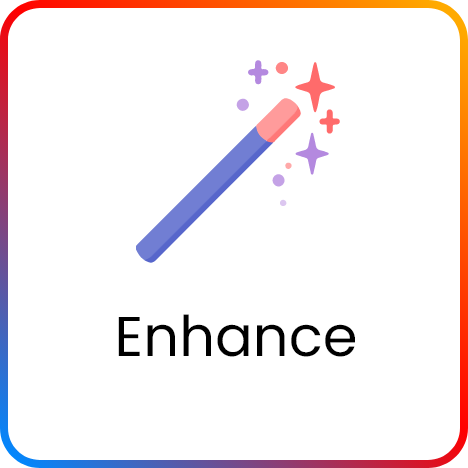
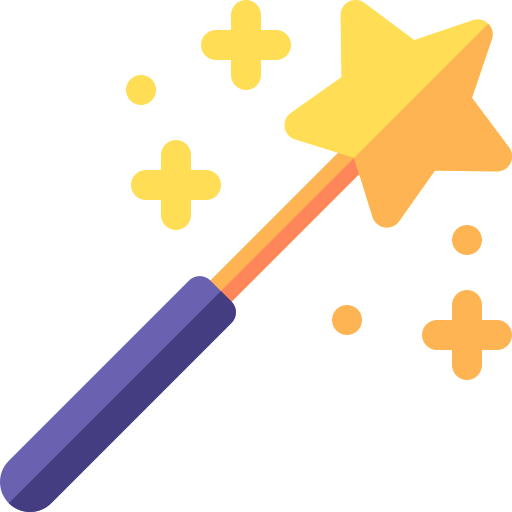
new settings done

diff --git a/lib/save_screen/save_screen.dart b/lib/save_screen/save_screen.dart
@@ -55,23 +55,19 @@ class _SaveScreenState extends State<SaveScreen> {
   List<Widget> iconList = [
     GradientContainerDesign1(
       title: "Enhance",
-      width: 84,
-      height: 84,
+      imagePath: "assets/enhance.png",
     ),
     GradientContainerDesign1(
       title: "Filter",
-      width: 84,
-      height: 84,
+      imagePath: "assets/filter.png",
     ),
     GradientContainerDesign1(
       title: "Text",
-      width: 84,
-      height: 84,
+      imagePath: "assets/text.png",
     ),
     GradientContainerDesign1(
       title: "HDR",
-      width: 84,
-      height: 84,
+      imagePath: "assets/hdr.png",
     ),
   ];
 
@@ -586,24 +582,16 @@ class GradientContainerDesign1 extends StatelessWidget {
   const GradientContainerDesign1({
     Key? key,
     required this.title,
-    required this.width,
-    required this.height,
-    this.showTrailingIcon = false,
-    this.showLeadingWidget = false,
-    this.leading = const SizedBox(),
+    required this.imagePath,
   }) : super(key: key);
   final String title;
-  final double width;
-  final double height;
-  final bool showLeadingWidget;
-  final bool showTrailingIcon;
-  final Widget leading;
+  final String imagePath;
 
   @override
   Widget build(BuildContext context) {
     return Container(
-      width: width,
-      height: height,
+      width: 84,
+      height: 84,
       decoration: BoxDecoration(
         gradient: LinearGradient(
           begin: Alignment.topRight,
@@ -618,33 +606,28 @@ class GradientContainerDesign1 extends StatelessWidget {
         borderRadius: BorderRadius.circular(10),
       ),
       child: Padding(
-        padding: const EdgeInsets.all(2.5),
-        child: Container(
-          decoration: BoxDecoration(
-            color: Colors.white,
-            borderRadius: BorderRadius.circular(8),
-          ),
-          child: Center(
-            child: Row(
+          padding: const EdgeInsets.all(2.5),
+          child: Container(
+            decoration: BoxDecoration(
+              color: Colors.white,
+              borderRadius: BorderRadius.circular(8),
+            ),
+            child: Column(
               mainAxisAlignment: MainAxisAlignment.center,
               children: [
-                !showLeadingWidget ? const SizedBox() : leading,
-                title.isNotEmpty ? const SizedBox(width: 5) : const SizedBox(),
-                Text(
-                  title,
-                  style: AppTextStyle.black14,
+                Image.asset(
+                  imagePath,
+                  width: 30,
+                  height: 30,
+                  fit: BoxFit.fill,
                 ),
-                !showTrailingIcon
-                    ? const SizedBox()
-                    : const Icon(
-                        Icons.arrow_forward_ios,
-                        size: 15,
-                      )
+                SizedBox(
+                  height: 2,
+                ),
+                Text(title)
               ],
             ),
-          ),
-        ),
-      ),
+          )),
     );
   }
 }

diff --git a/lib/drawer_design/drawer_design.dart b/lib/drawer_design/drawer_design.dart
@@ -4,6 +4,7 @@ import 'package:flutter/material.dart';
 import 'package:image_enhancer/utils/app_colors.dart';
 import 'package:image_enhancer/utils/app_textstyle.dart';
 import 'package:share_plus/share_plus.dart';
+import 'package:simple_gradient_text/simple_gradient_text.dart';
 import 'package:store_redirect/store_redirect.dart';
 import 'package:url_launcher/url_launcher.dart';
 
@@ -37,10 +38,29 @@ class _DrawerDesignState extends State<DrawerDesign> {
           child: Padding(
             padding: const EdgeInsets.all(20.0),
             child: Column(
-              crossAxisAlignment: CrossAxisAlignment.start,
+              crossAxisAlignment: CrossAxisAlignment.center,
               children: [
-                const Divider(),
+                Image.asset(
+                  "assets/drawer.png",
+                ),
+                SizedBox(
+                  height: 20,
+                ),
 
+                GradientText(
+                  "Photo Enhancer AI\nPhotoShoot",
+                  textAlign: TextAlign.center,
+                  style: TextStyle(
+                    fontSize: 24.0,
+                  ),
+                  colors: [
+                    AppColors.pinkColor,
+                    AppColors.redColor,
+                    AppColors.blueColor,
+                    AppColors.orangeColor,
+                  ],
+                ),
+                const Divider(),
                 /* -------------------------------------------------------------------------- */
                 /*                                   Rate us                                  */
                 /* -------------------------------------------------------------------------- */
@@ -105,6 +125,7 @@ class _DrawerDesignState extends State<DrawerDesign> {
                     style: AppTextStyle.black16,
                   ),
                 ),
+                const Divider(),
                 /* -------------------------------------------------------------------------- */
                 /*                            terms and conditions                            */
                 /* -------------------------------------------------------------------------- */

diff --git a/lib/utils/session_controller.dart b/lib/utils/session_controller.dart
@@ -1,30 +1,29 @@
 class SessionController {
   static final SessionController _session = SessionController._internel();
 
-  static String admob_banner_ad_id = "ca-app-pub-3940256099942544/6300978111";
-  static String admob_interstetial_ad_id =
-      "ca-app-pub-3940256099942544/1033173712";
-  static String admob_rewarded_ad_id = "ca-app-pub-3940256099942544/5224354917";
-  static String open_ad_id = "ca-app-pub-3940256099942544/3419835294";
-  static bool admob_banner_save_screen = true;
-  static bool admob_banner_filter_screen = true;
-  static bool admob_interstetial_splash_screen = true;
-  static bool admob_interstetial_privacy_screen = true;
-  static bool admob_interstetial_home_screen = true;
-  static bool admob_interstetial_save_screen = true;
-  static bool admob_interstetial_select_screen = true;
-  static bool admob_reward = true;
+  static String admob_banner_ad_id = "";
+  static String admob_interstetial_ad_id = "";
+  static String admob_rewarded_ad_id = "";
+  static String open_ad_id = "";
+  static bool admob_banner_save_screen = false;
+  static bool admob_banner_filter_screen = false;
+  static bool admob_interstetial_splash_screen = false;
+  static bool admob_interstetial_privacy_screen = false;
+  static bool admob_interstetial_home_screen = false;
+  static bool admob_interstetial_save_screen = false;
+  static bool admob_interstetial_select_screen = false;
+  static bool admob_reward = false;
   /* -------------------------------------------------------------------------- */
   /*                          applovin interstetial ads                         */
   /* -------------------------------------------------------------------------- */
 
-  // static bool applovin_interstetial = true;
+  // static bool applovin_interstetial = false;
 
   /* -------------------------------------------------------------------------- */
   /*                               applovin reward                              */
   /* -------------------------------------------------------------------------- */
 
-  // static bool applovin_reward = true;
+  // static bool applovin_reward = false;
 
   factory SessionController() {
     return _session;

diff --git a/lib/utils/firebase_data.dart b/lib/utils/firebase_data.dart
@@ -25,6 +25,12 @@ class FirebaseData {
           SessionController.admob_rewarded_ad_id =
               result.data()["admob_rewarded_ad_id"];
 
+          SessionController.open_ad_id = result.data()["open_ad_id"];
+
+          /* -------------------------------------------------------------------------- */
+          /*                               stop admob ads                               */
+          /* -------------------------------------------------------------------------- */
+
           /* -------------------------------------------------------------------------- */
           /*                                 banner ads                                 */
           /* -------------------------------------------------------------------------- */
@@ -51,5 +57,32 @@ class FirebaseData {
     } catch (e) {
       log(e.toString());
     }
+  }
+}
+
+class SetSessionData {
+  /* -------------------------------------------------------------------------- */
+/*                              set session data                              */
+/* -------------------------------------------------------------------------- */
+
+  void setSessionData() async {
+    SessionController.admob_banner_ad_id = "";
+    SessionController.admob_interstetial_ad_id = "";
+    SessionController.admob_rewarded_ad_id = "";
+    SessionController.open_ad_id = "";
+
+    /* -------------------------------------------------------------------------- */
+    /*                               stop admob ads                               */
+    /* -------------------------------------------------------------------------- */
+
+    /* -------------------------------------------------------------------------- */
+    /*                                 banner ads                                 */
+    /* -------------------------------------------------------------------------- */
+
+    SessionController.admob_banner_save_screen = false;
+    SessionController.admob_banner_filter_screen = false;
+    SessionController.admob_interstetial_home_screen = false;
+    SessionController.admob_interstetial_select_screen = false;
+    SessionController.admob_reward = false;
   }
 }

diff --git a/lib/splash_screen/splash_screen.dart b/lib/splash_screen/splash_screen.dart
@@ -31,8 +31,10 @@ class _SplashScreenState extends State<SplashScreen> {
   bool splashLoading = true;
   void checkPurchase() async {
     FirebaseData().getFirebaseData().then((value) {
-      ads.loadInterstitialAd();
       Future.delayed(Duration(seconds: 3), () {
+        if (SessionController.admob_interstetial_splash_screen) {
+          ads.loadInterstitialAd();
+        }
         setState(() {
           splashLoading = false;
         });
